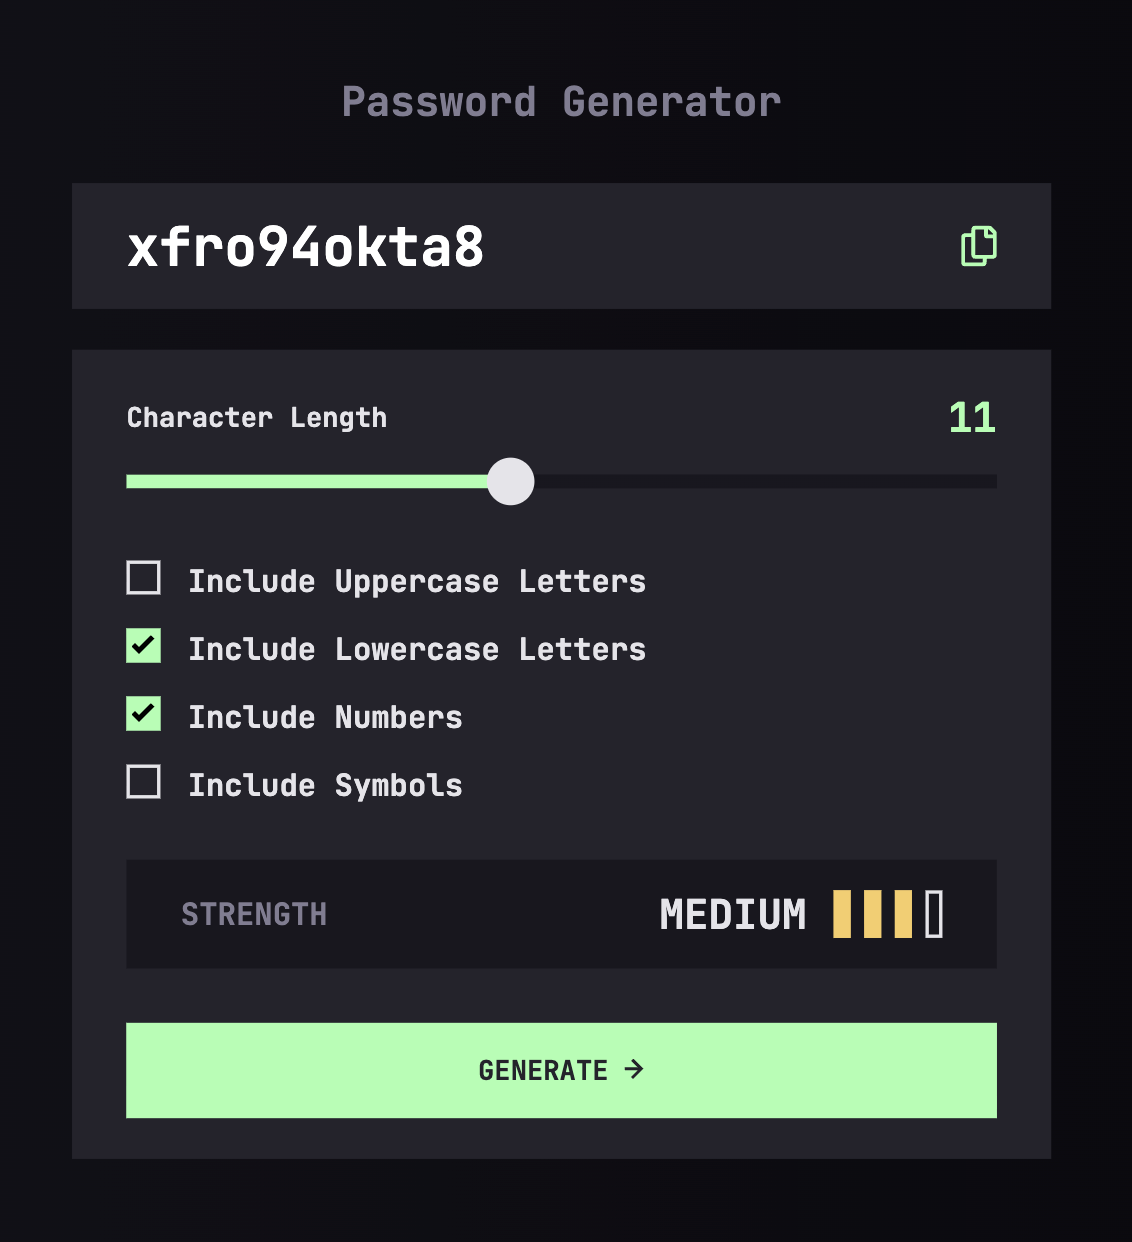
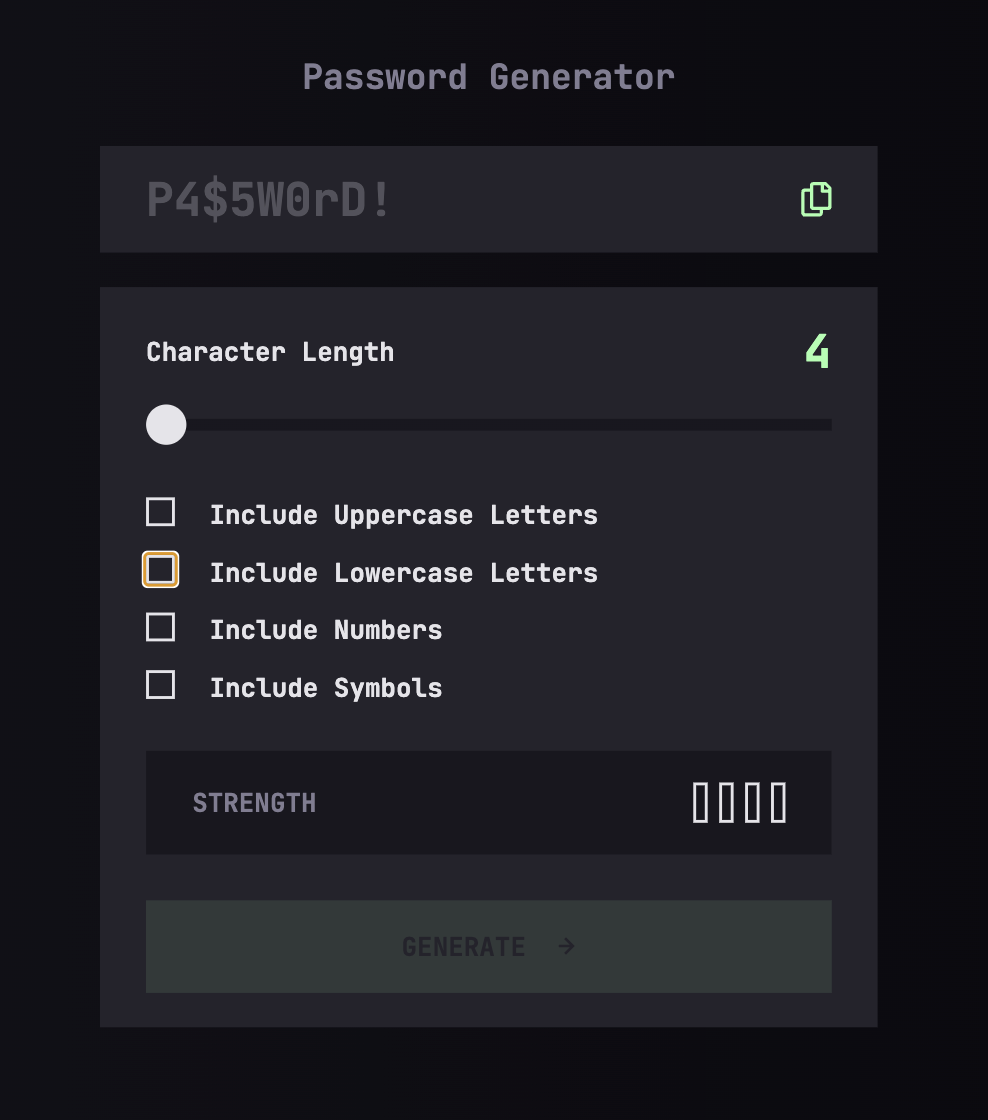
fixing for empty fields

diff --git a/src/components/TotalStrength.tsx b/src/components/TotalStrength.tsx
@@ -13,13 +13,13 @@ const TotalStrength = () => {
     .filter((c) => c.isIncluded)
     .reduce((sum, curr) => sum + curr.chars.length, 0);
 
-  let rectangles: number = 4;
+  let rectangles: number = characters.length;
   let filledRectangles: number = 0;
   let passwordStrength: string = "";
   let bgRectangle: string = "";
 
   function calculateEntropy(length: number, poolSize: number): number {
-    if (length <= 4 || poolSize <= 0) {
+    if (length < 4 || poolSize <= 0) {
       return 0;
     }
     return length * Math.log2(poolSize);
@@ -27,11 +27,7 @@ const TotalStrength = () => {
 
   const entropy = calculateEntropy(length, charSize);
 
-  if (entropy === 0) {
-    filledRectangles = 0;
-    passwordStrength = "";
-    bgRectangle = "border-grey-200";
-  } else if (entropy > 0 && entropy < 28) {
+  if (entropy < 28) {
     filledRectangles = 1;
     passwordStrength = "TOO WEAK!";
     bgRectangle = "tooweak";
@@ -65,7 +61,7 @@ const TotalStrength = () => {
 
   return (
     <div>
-      <div className="p-4 sm:py-5 sm:px-8 bg-grey-850 flex items-center min-h-14 sm:min-h-18">
+      <div className="p-4 sm:px-8 bg-grey-850 flex items-center">
         <p className="text-base/5 text-grey-600 sm:text-lg">STRENGTH</p>
         <span className="ml-auto mr-4 text-lg/6 sm:text-2xl sm:pl-4">
           {passwordStrength}
@@ -85,13 +81,12 @@ const TotalStrength = () => {
         </div>
       </div>
       <button
-        type="button"
         onClick={generatePassword}
         disabled={!charSize}
-        className="w-full mt-3 sm:mt-8 bg-green-200 px-26 py-4 text-grey-800 text-base/5 sm:text-lg inline border-2 border-green-200 hover:text-green-200 
+        className="w-full mt-4 sm:mt-8 bg-green-200 px-26 py-4 text-grey-800 text-base/5 inline border-2 border-green-200 hover:text-green-200 
         hover:bg-transparent disabled:opacity-10 disabled:cursor-not-allowed disabled:hover:bg-green-200 disabled:hover:text-grey-800"
       >
-        GENERATE <ArrowRightIcon className="ml-1 sm:ml-3 inline h-3 w-3 mb-1" />
+        GENERATE <ArrowRightIcon className="inline mb-1" />
       </button>
     </div>
   );
